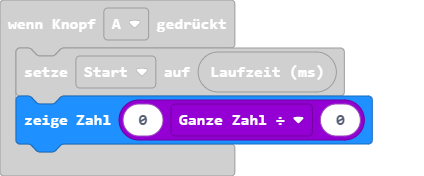
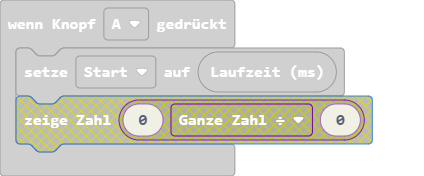
Aktualisiere main.blocks, main.ts

Changed region(s): [[0.0307, 0.5398, 0.8892, 0.8807]]

diff --git a/main.ts b/main.ts
@@ -2,7 +2,6 @@ let Start = 0
 let elapsed = 0
 input.onButtonPressed(Button.A, function () {
     Start = input.runningTime()
-    basic.showNumber(Math.idiv(0, 0))
 })
 input.onButtonPressed(Button.B, function () {
     elapsed = input.runningTime() - Start
